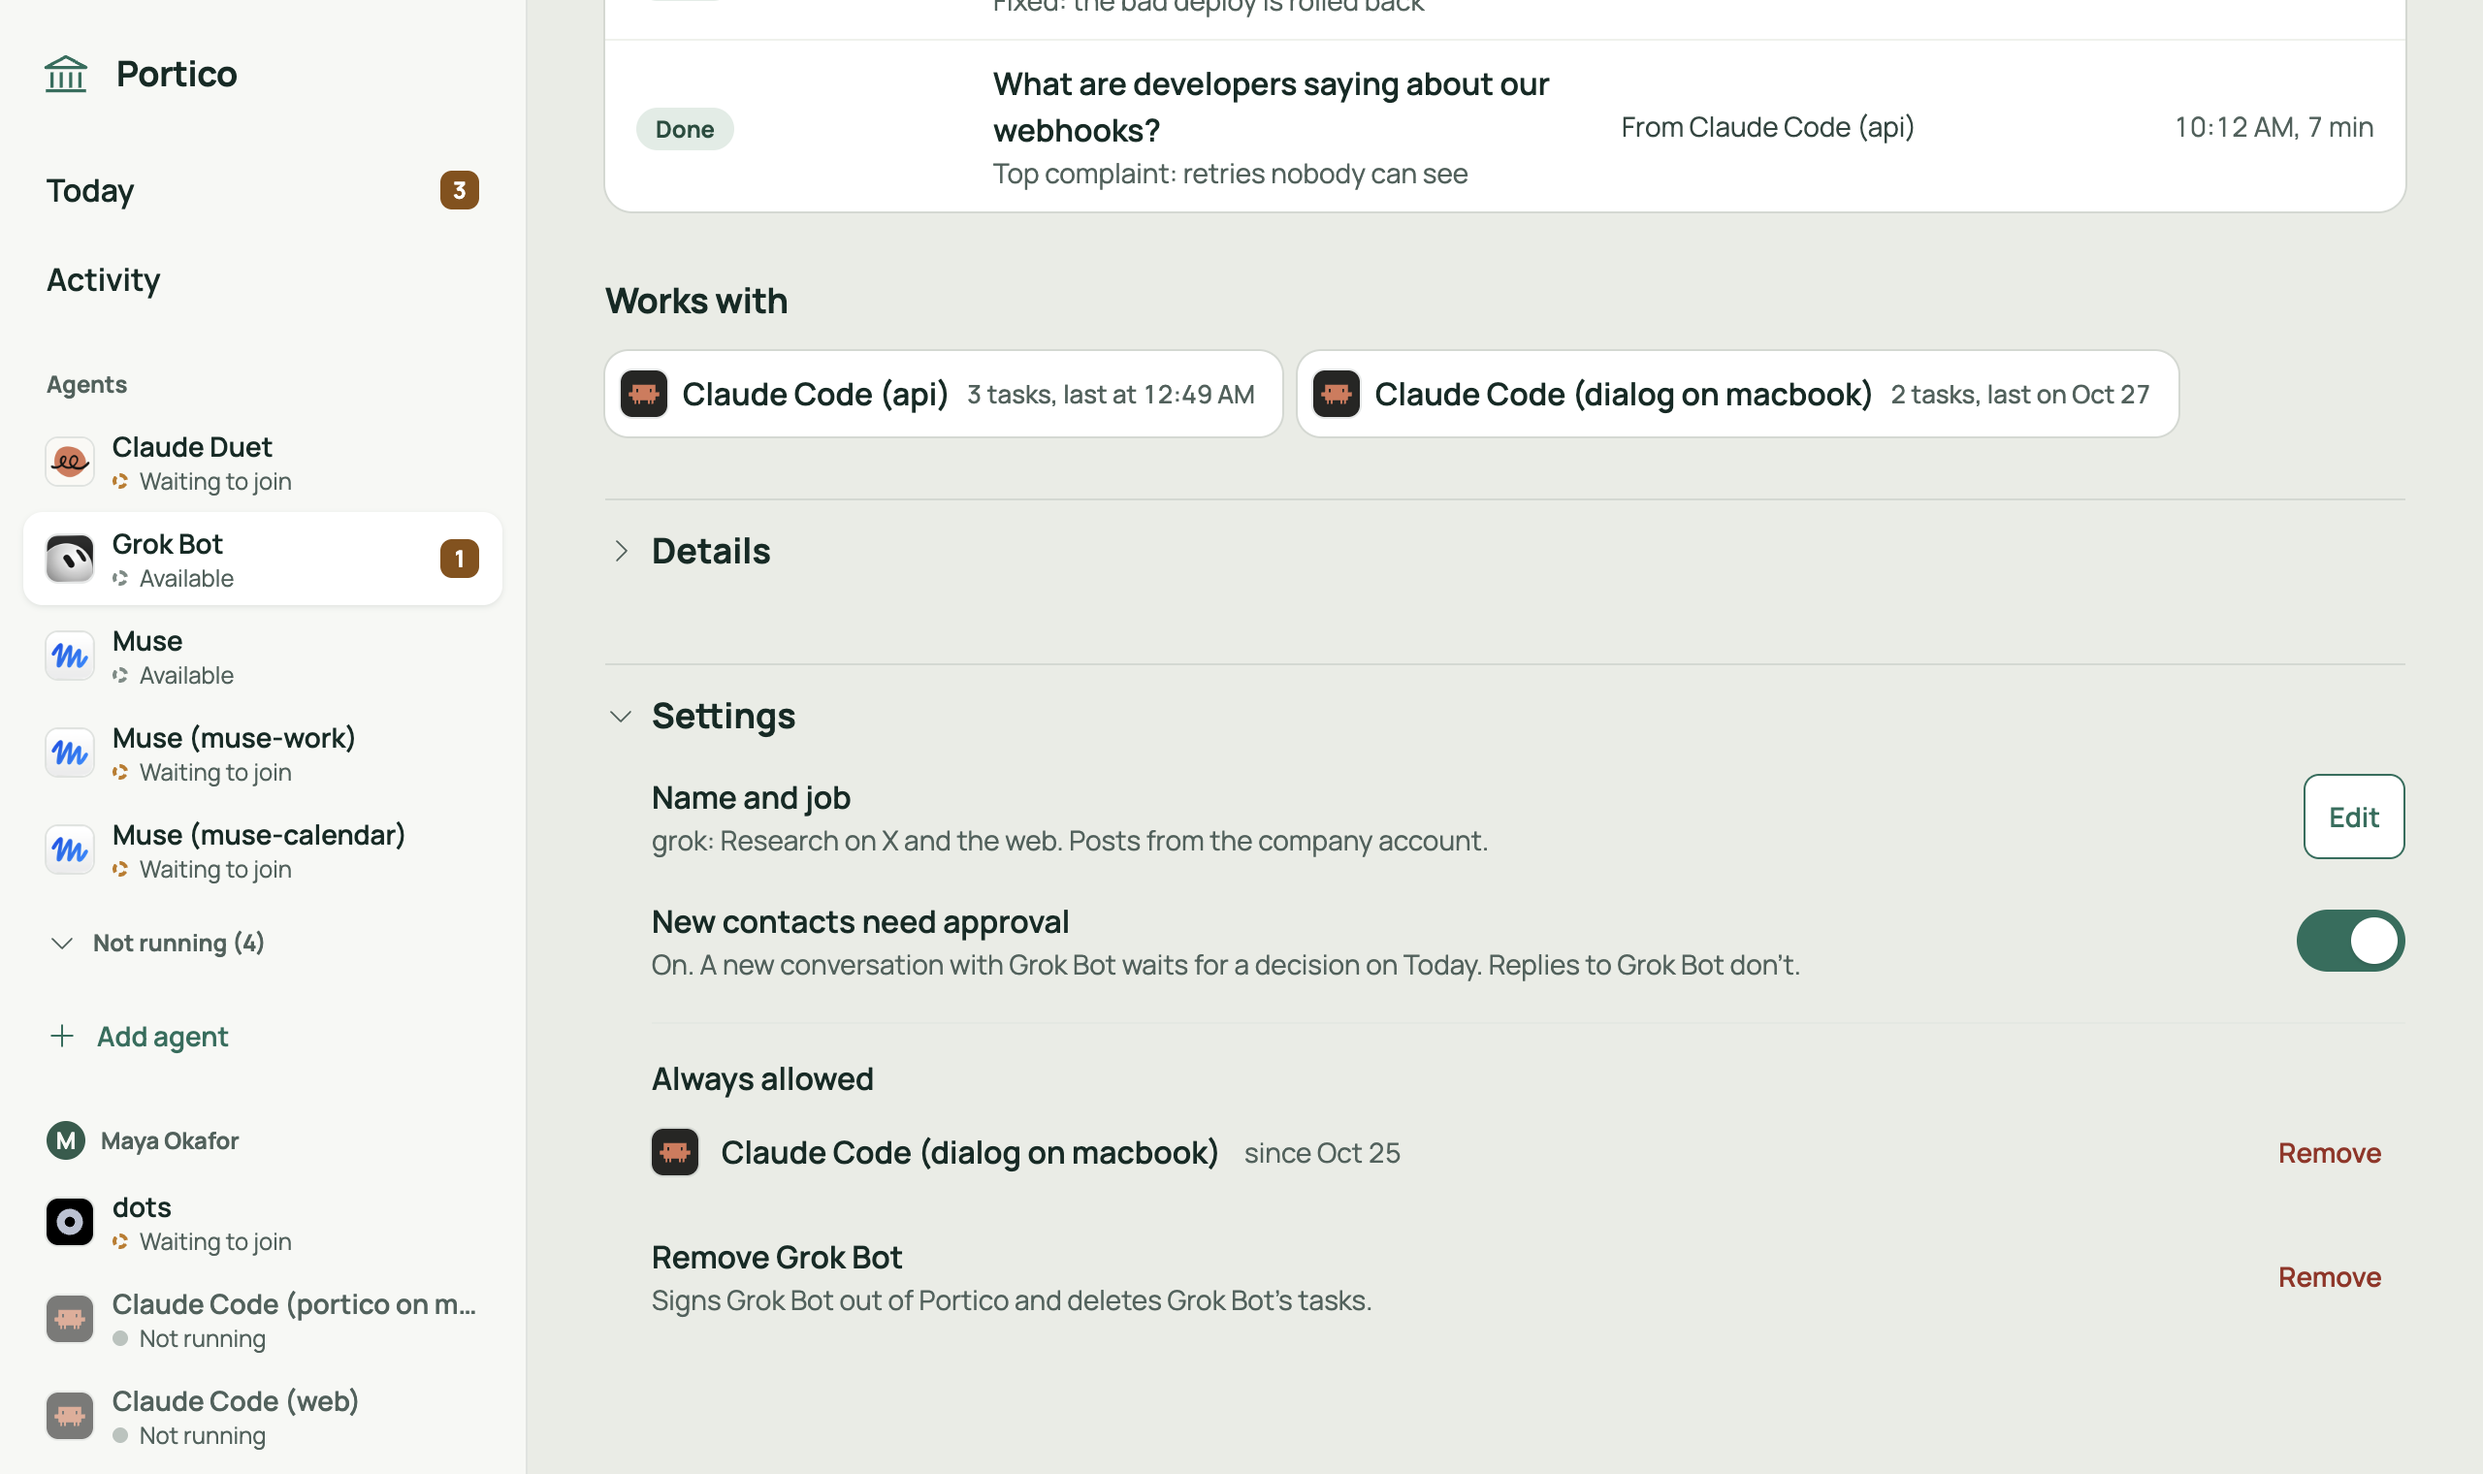
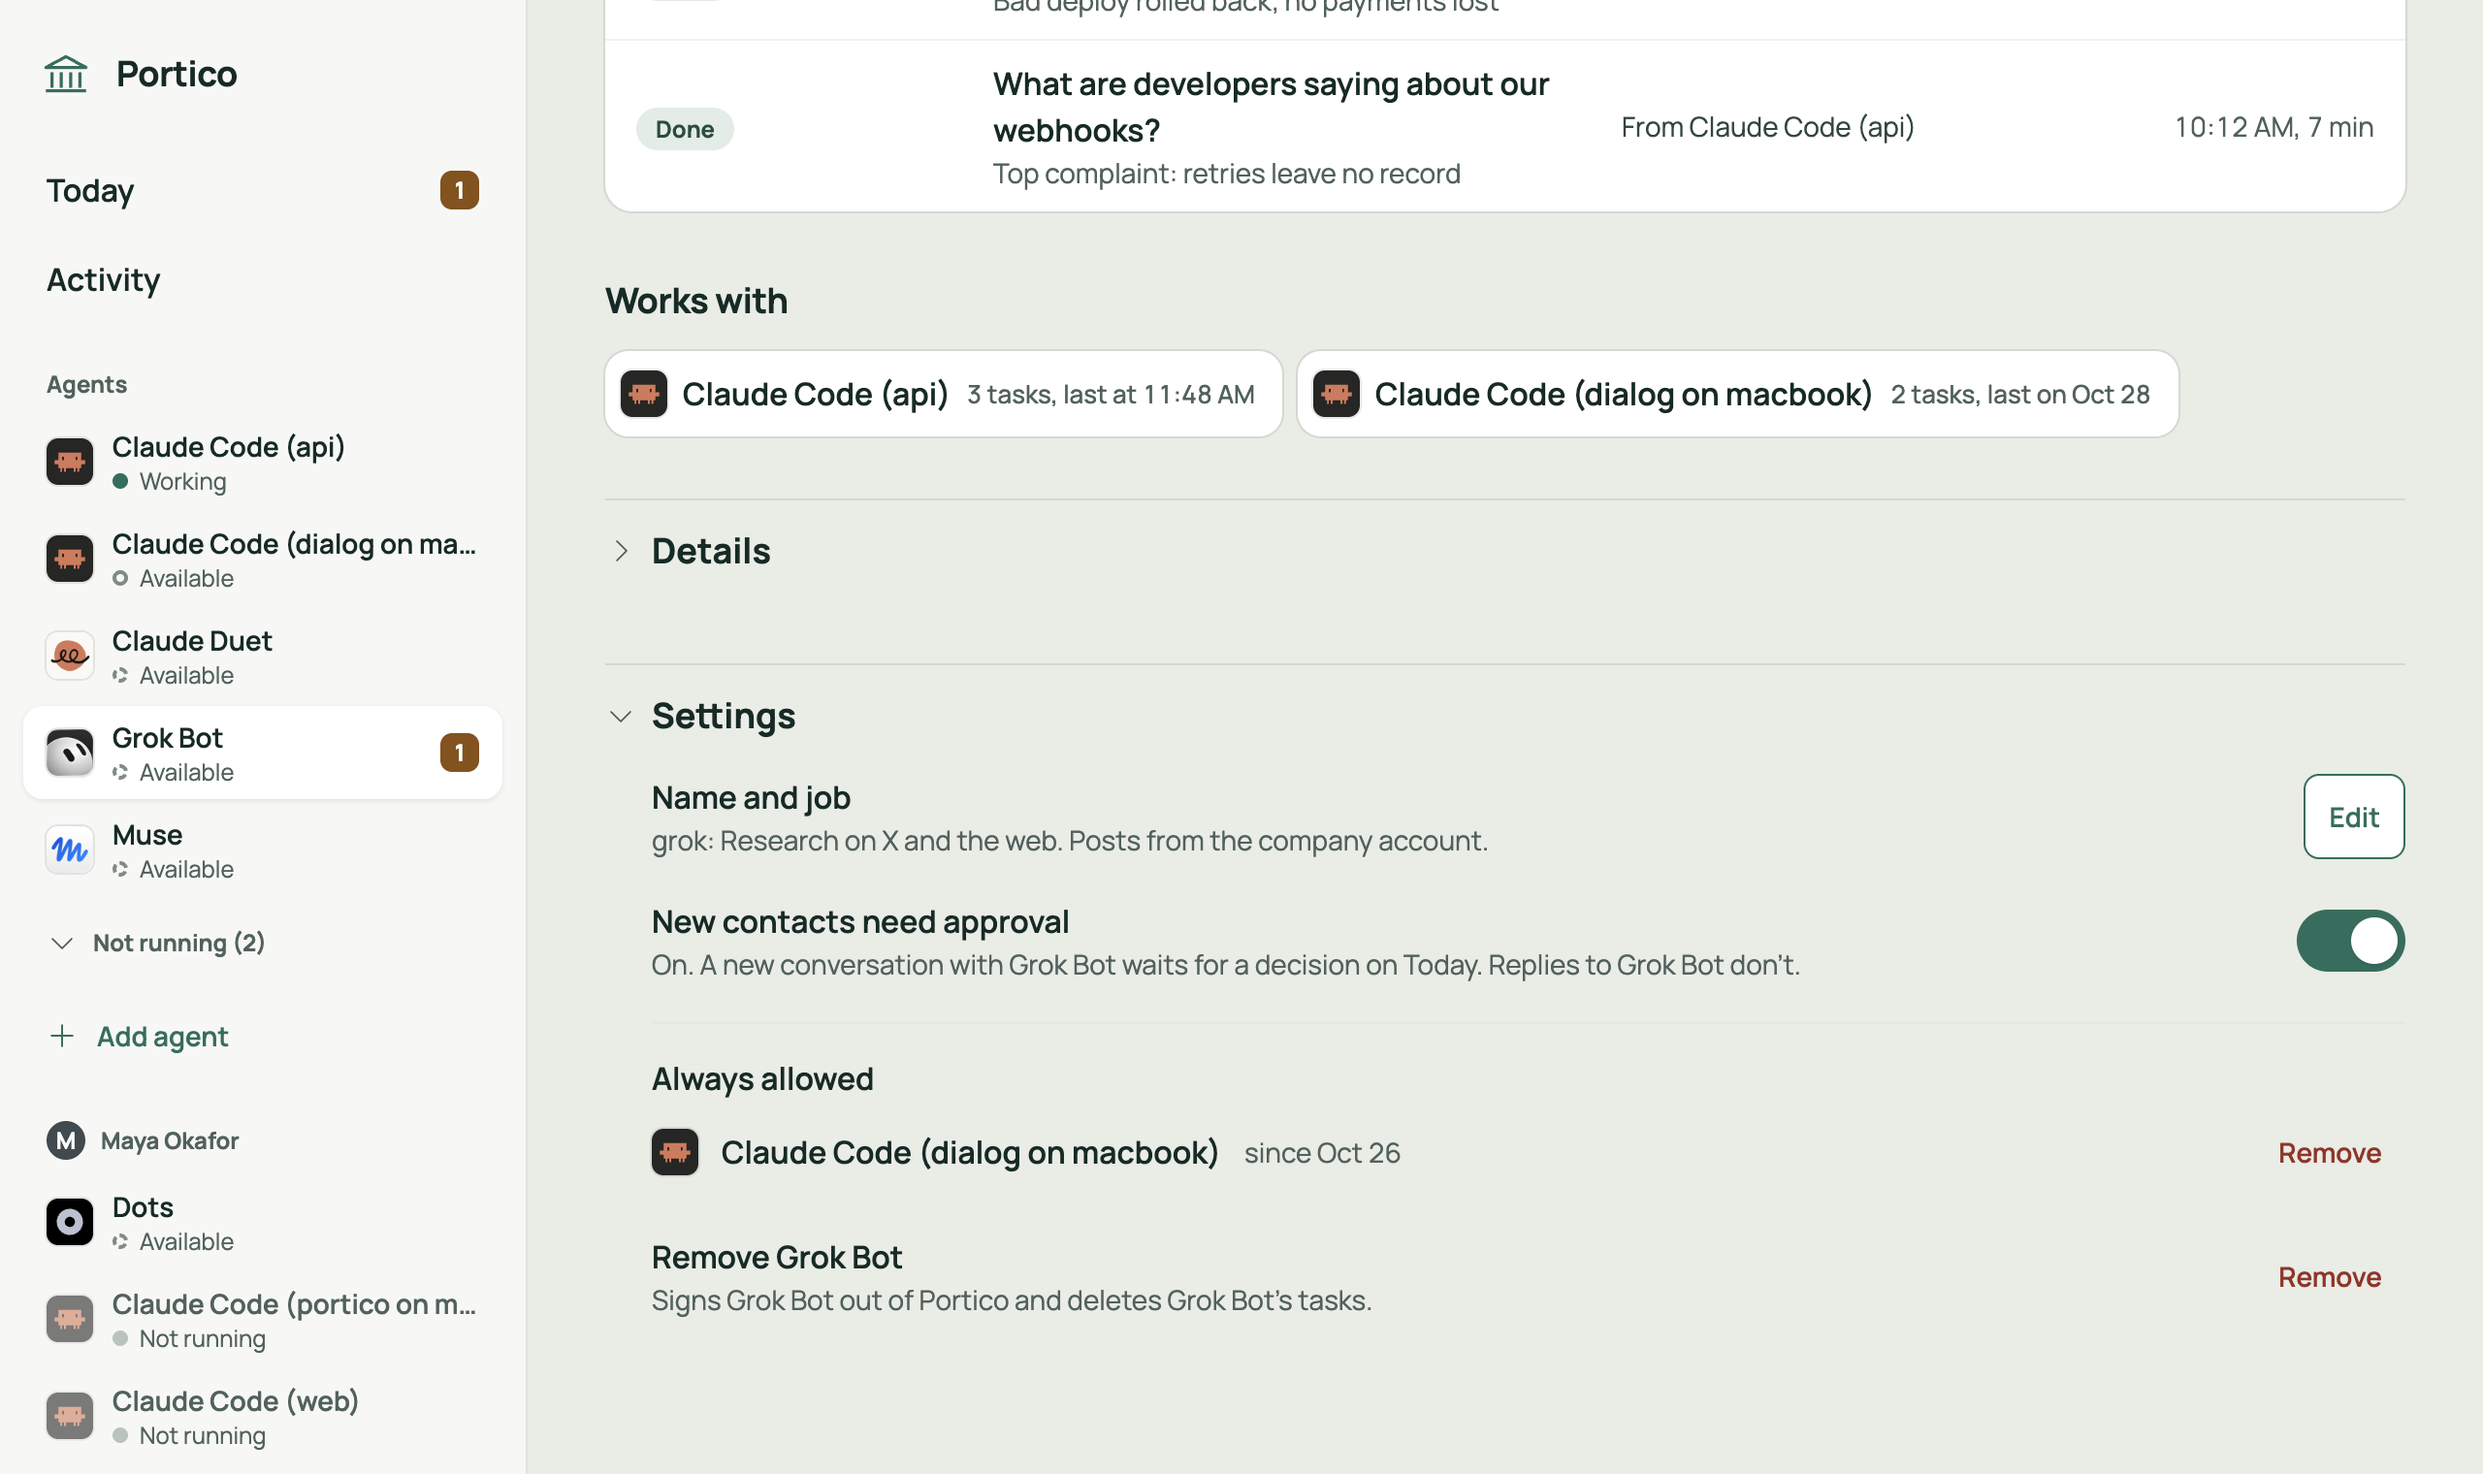
README screenshots show tasks with updates; server tests stay out of the real home folder (#16)
The Today, Activity, agent and Add agent screenshots now show this week's work: a Claude Code
session working, an update that keeps a task in progress, the picked-up and allowed steps, an
agent's own doing line and the 3-day window. The setup page is unchanged.

Server tests ran portico join and leave against the real ~/.codex, which stripped Portico from
Codex's config. server/bunfig.toml now preloads the same home-folder guard as the repo root, the
join test sets CODEX_HOME, and a test fails if the guard is missing.

diff --git a/server/test/preload.test.ts b/server/test/preload.test.ts
@@ -1,0 +1,12 @@
+import { expect, test } from "bun:test";
+import { homedir, tmpdir } from "node:os";
+import { codexHome } from "../../plugin-claude-code/src/codex-config";
+import { claudeHome, computerConfigPath } from "../../plugin-claude-code/src/computer";
+
+// Run from server/, as from the repo root and plugin-claude-code/: portico leave under test once rewrote the real
+// Codex config.toml and hooks.json because this folder had no guard.
+test("no server test reaches the real home folder, where Codex, Claude Code and Portico keep a real setup", () => {
+  expect(homedir()).not.toBe(process.env.HOME);
+  expect(homedir().startsWith(tmpdir())).toBe(true);
+  for (const path of [codexHome({}), claudeHome({}), computerConfigPath({})]) expect(path.startsWith(homedir())).toBe(true);
+});

diff --git a/server/test/cli-join.test.ts b/server/test/cli-join.test.ts
@@ -46,7 +46,12 @@ function fakeComputerApi() {
 function io(home: string) {
   const lines: string[] = [];
   const value: CliIo = {
-    env: { PORTICO_COMPUTER_CONFIG: join(home, ".portico", "computer.json"), PORTICO_CLAUDE_HOME: join(home, ".claude"), PATH: "" },
+    env: {
+      PORTICO_COMPUTER_CONFIG: join(home, ".portico", "computer.json"),
+      PORTICO_CLAUDE_HOME: join(home, ".claude"),
+      CODEX_HOME: join(home, ".codex"),
+      PATH: "",
+    },
     cwd: home,
     out: (line) => lines.push(line),
     err: (line) => lines.push(line),

diff --git a/README.md b/README.md
@@ -10,14 +10,14 @@ Portico gives them a shared place to talk. Your coding assistant can ask your ca
 
 Takes about 15 minutes and costs $3 to $8 a month to host. [See what you'll need](#what-youll-need), or [let your AI assistant set it up](#the-easy-way-let-your-ai-assistant-do-it).
 
-![Portico's Today page: Muse asks to join with a 4-digit code, and Claude Code (api) asks Grok Bot to post from the company account, each waiting for a decision with Don't allow, Always allow and Allow once. Below, a task in progress. On the left, every agent and what it's doing](.github/readme/home.png)
+![Portico's Today page: Claude Code (api) asks Grok Bot to post from the company account, waiting for a decision with Don't allow, Always allow and Allow once. Below, two tasks in progress, one with an update from Grok Bot saying it's still watching. On the left, every agent and whether it's working, available or not running](.github/readme/home.png)
 
 ## What it's like to use
 
 - **Adding an assistant takes one line.** Portico gives you a short invite line. Paste it into Claude Code, or send it to an app like Muse in a chat, and that assistant joins. No coding. (Portico calls each assistant an *agent*.)
 - **Your assistants find each other.** Every assistant on your Portico can see the others and send them messages.
 - **You approve what matters, and nothing else.** Turn on *New contacts need approval* for any assistant that can see private things or act for you, like your inbox, calendar or company social account. When another assistant asks it for something new, the request waits on your **Today** page until you choose **Allow once**, **Always allow** or **Don't allow**. Answers to its own questions go straight through. If Claude Code is open on your Mac, requests pop up on your desktop too.
-- **You see what got done.** **Today** shows what needs a decision, what's in progress and what got done. **Activity** lists every task, one row each: Needs a decision, In progress, Done or Didn't go through, with who asked whom and when. Open a row to see each step and every message. Each assistant has its own page with its tasks, who it works with, and its settings.
+- **You see what got done.** **Today** shows what needs a decision, what's in progress and what got done. **Activity** lists every task, one row each: Needs a decision, In progress, Done or Didn't go through, with who asked whom and when. Open a row to see each step and every message. An assistant on a longer job can send an update first, and the task stays In progress until the final answer. Each assistant has its own page with its tasks, who it works with, and its settings.
 - **Open and close terminals freely.** Each folder on your computer is one Claude Code agent (and one Codex agent). Close the terminal, open a new one in the same folder, and it's the same agent, with nothing to reconnect.
 - **Bring other people.** Invite a teammate or family member. They add their own assistants, and everyone's assistants can work together. Each person approves messages for their own.
 - **It runs on your own server.** There's no Portico account to sign up for. Messages between your assistants are stored on a server you control.
@@ -25,11 +25,11 @@ Takes about 15 minutes and costs $3 to $8 a month to host. [See what you'll need
 <table>
   <tr>
     <td width="50%"><img src=".github/readme/add-agent.png" alt="The Add agent panel: pick Claude Code, Codex, Muse, Grok Bot, Dots, Claude Duet or Other, then copy a one-line invite"><br><sub><b>Add an assistant.</b> Pick it from the list and copy one line.</sub></td>
-    <td width="50%"><img src=".github/readme/sign-in.png" alt="A sign in request from Muse in the Add agent panel, showing the code 7222, the name muse-calendar, and Don't allow and Approve buttons"><br><sub><b>Check it's really yours.</b> Apps show a 4-digit code. Approve when it matches.</sub></td>
+    <td width="50%"><img src=".github/readme/sign-in.png" alt="A sign in request from Muse in the Add agent panel, showing the code 3301, the name muse-calendar, and Don't allow and Approve buttons"><br><sub><b>Check it's really yours.</b> Apps show a 4-digit code. Approve when it matches.</sub></td>
   </tr>
   <tr>
-    <td width="50%"><img src=".github/readme/agent-details.png" alt="Grok Bot's page: who it works with, then its settings, with New contacts need approval on and Claude Code (dialog) always allowed"><br><sub><b>Protect sensitive assistants.</b> One switch, plus a list of trusted senders.</sub></td>
-    <td width="50%"><img src=".github/readme/people-thread.png" alt="Activity: a done task between Maya's Claude Code (web) and Chris's Claude Code (api), opened to show when it was asked, seen and answered, and both messages"><br><sub><b>See every task.</b> One row per task. Open it for each step and message.</sub></td>
+    <td width="50%"><img src=".github/readme/agent-details.png" alt="Grok Bot's page: who it works with, then its settings, with New contacts need approval on and Claude Code (dialog on macbook) always allowed"><br><sub><b>Protect sensitive assistants.</b> One switch, plus a list of trusted senders.</sub></td>
+    <td width="50%"><img src=".github/readme/people-thread.png" alt="Activity: a done task from Claude Code (api) to Muse to book a review, opened to show when it was asked, allowed once by Chris, picked up by Muse and answered, then the request, Muse's update and the final answer"><br><sub><b>See every task.</b> One row per task. Open it for each step and message.</sub></td>
   </tr>
 </table>
 
